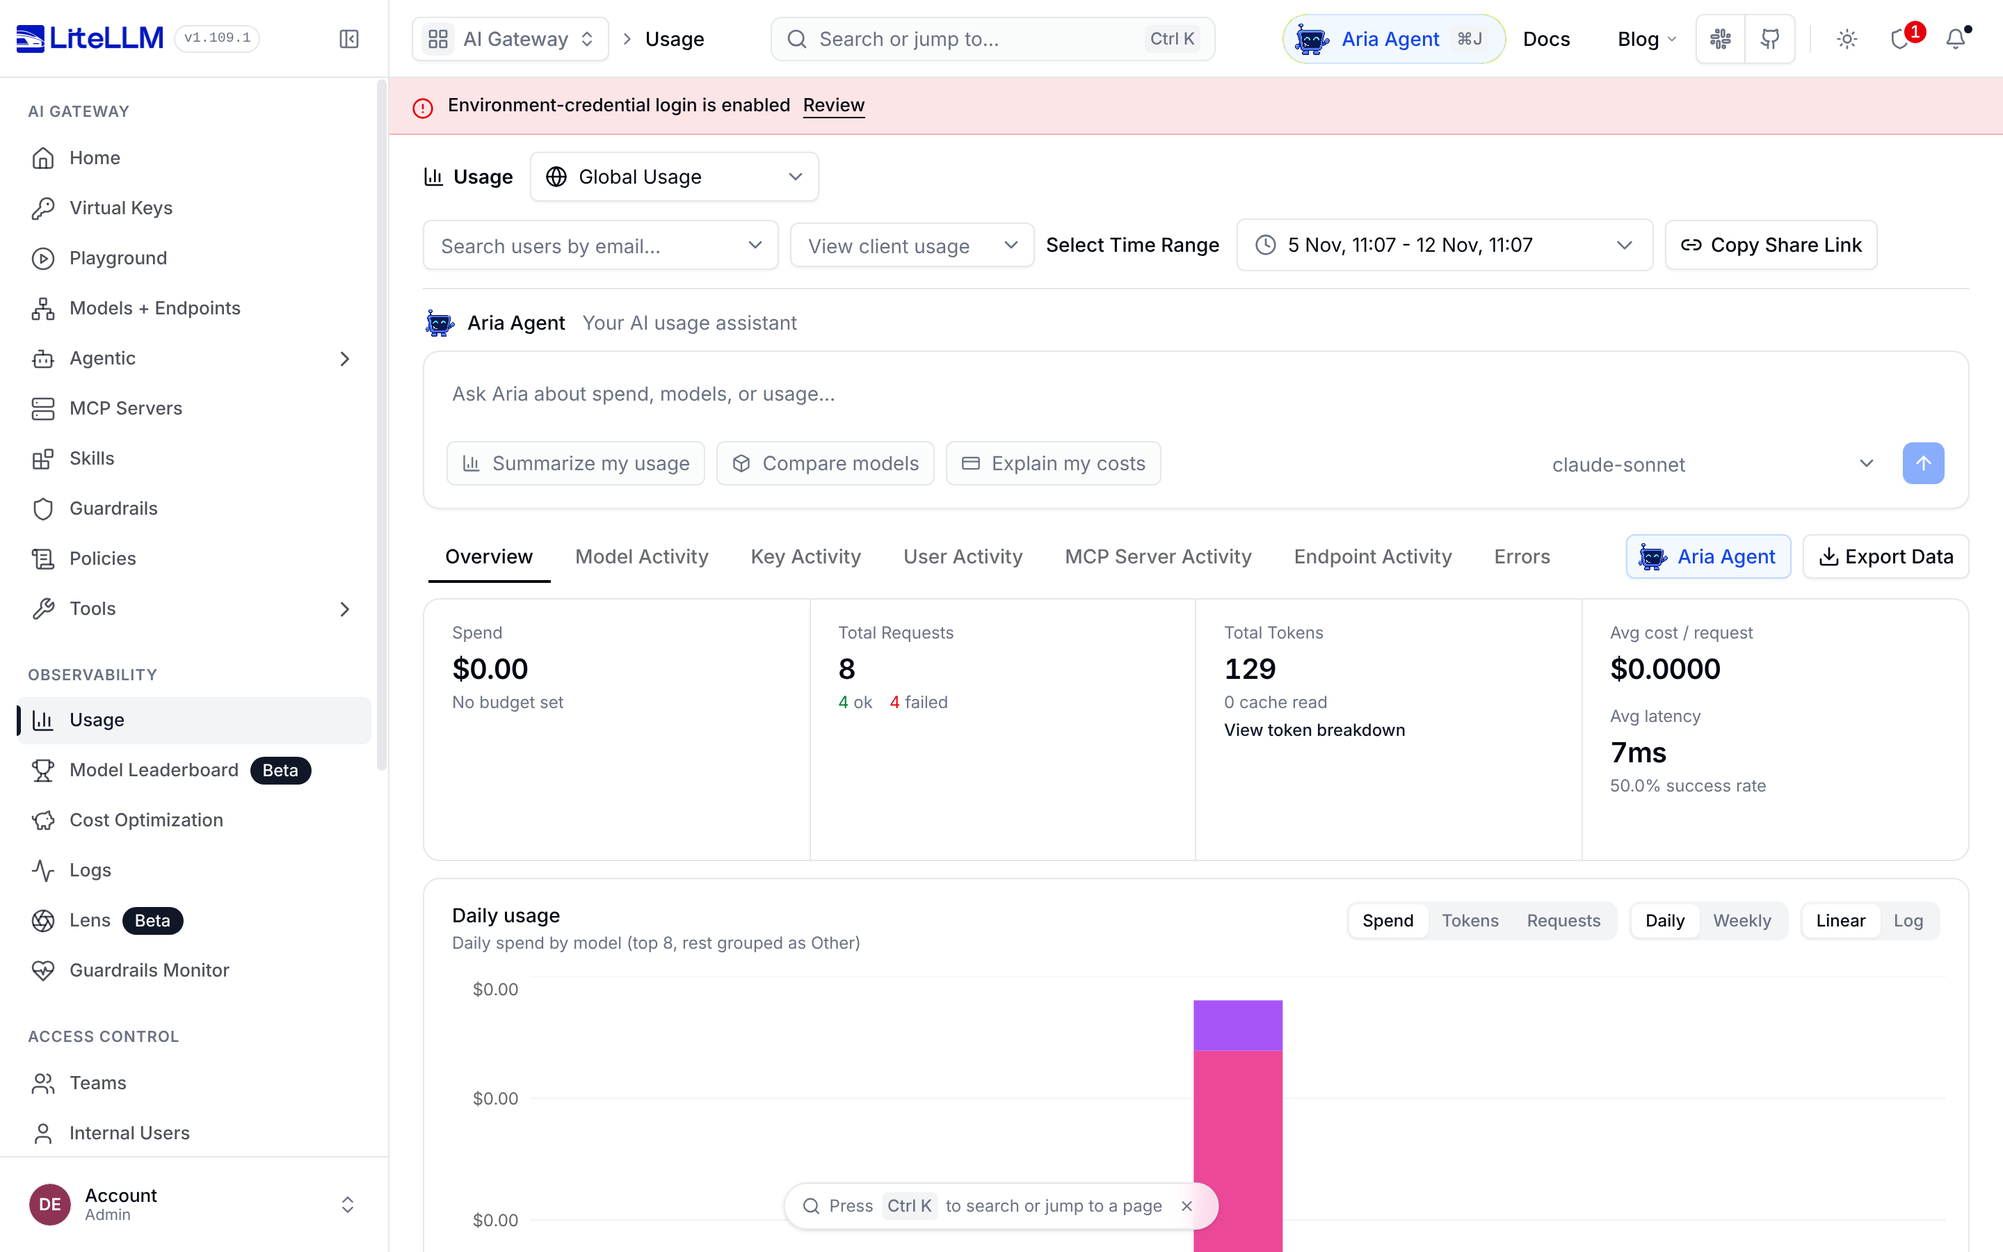
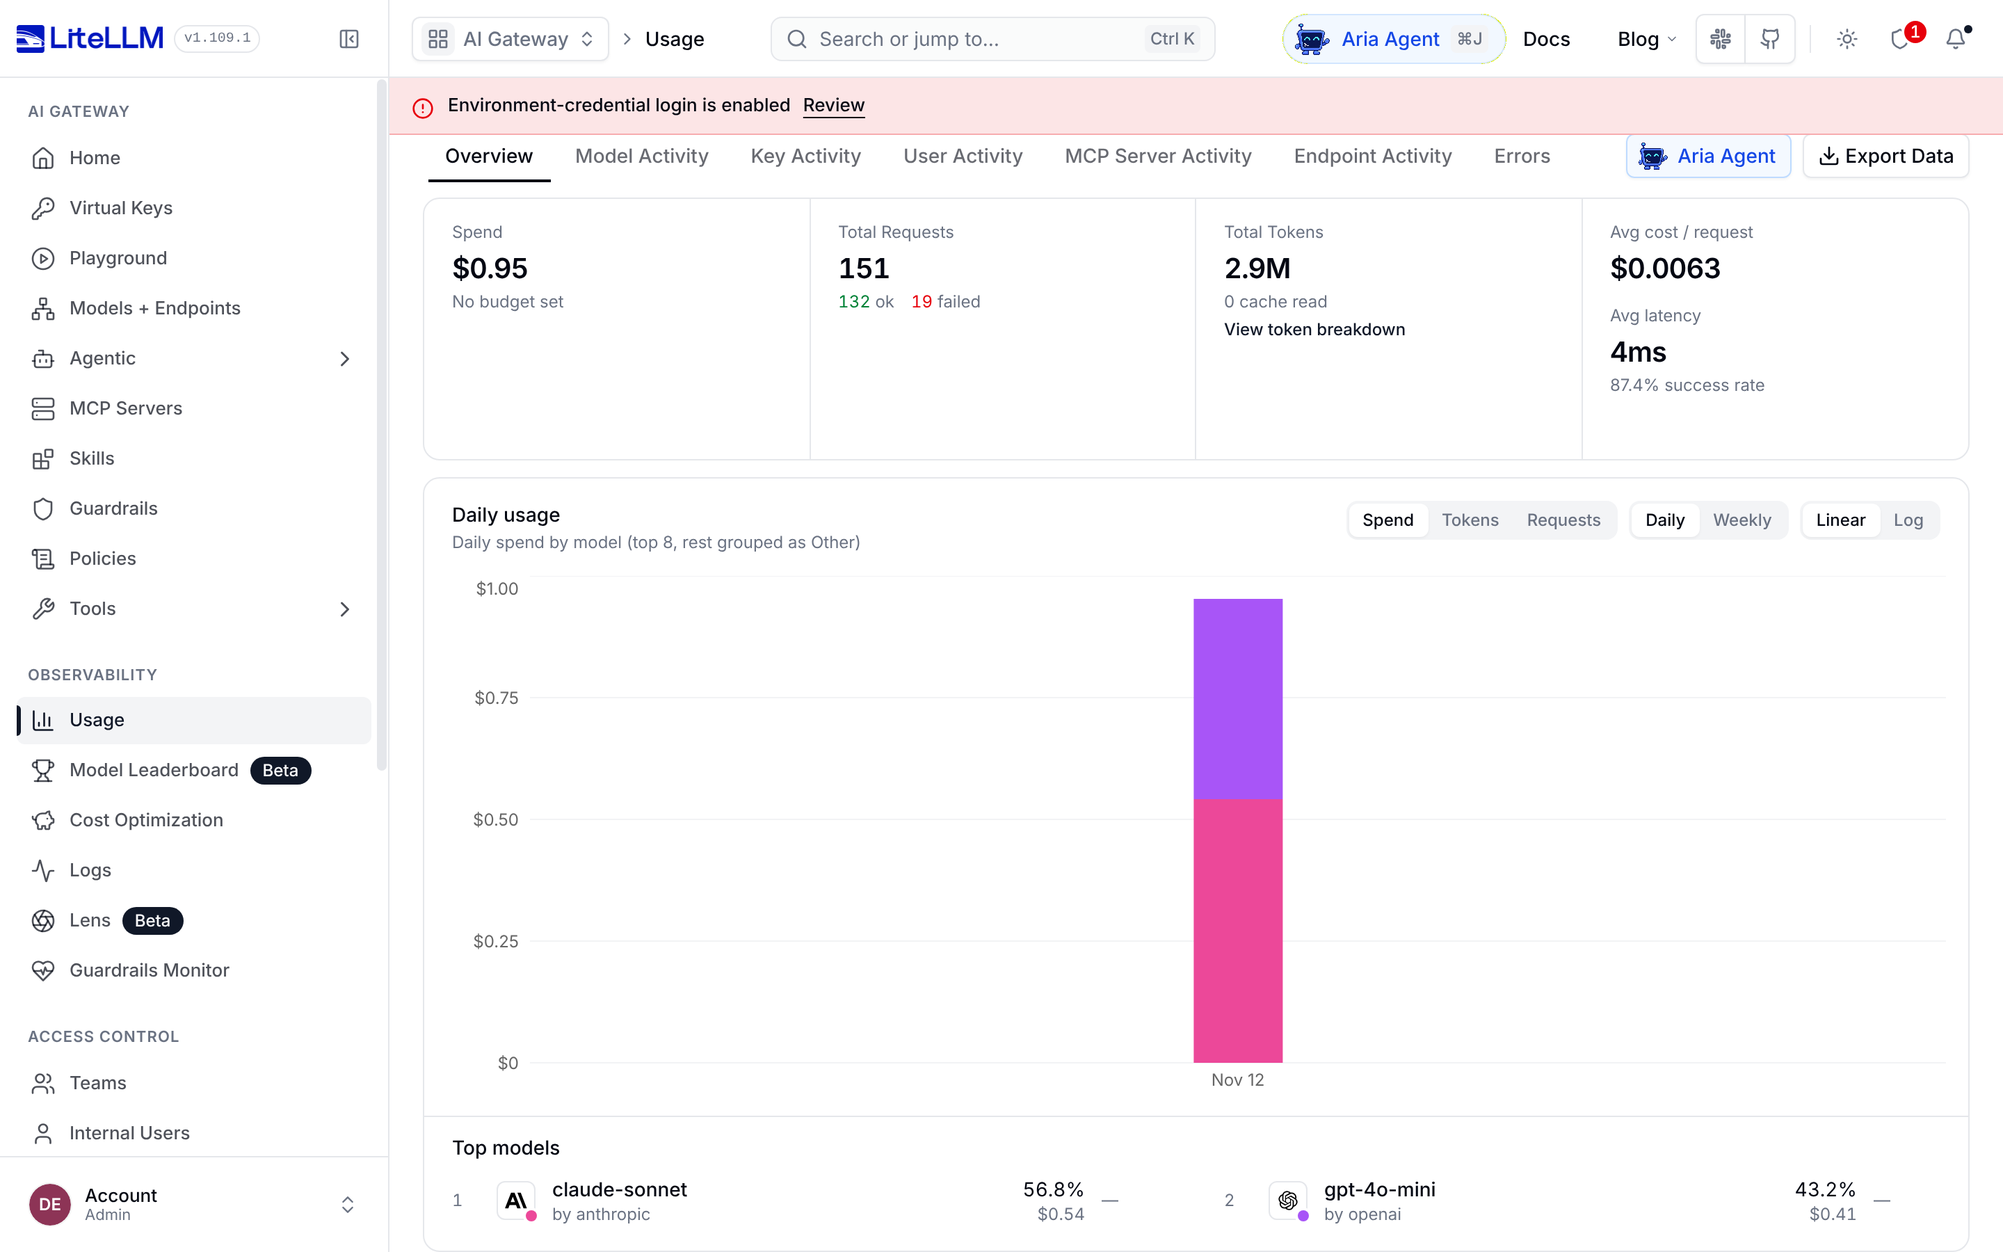
Seeded traffic, fresh screenshots with visible spend and budgets, key detail view

diff --git a/scripts/seed_traffic.py b/scripts/seed_traffic.py
@@ -1,0 +1,143 @@
+#!/usr/bin/env python3
+"""Seed realistic demo traffic through the gateway so the admin UI has something to show.
+Stdlib only. Usage: python3 scripts/seed_traffic.py [--fast] [topup|tail]
+  (no mode) full seed run; "topup" = extra key B traffic only (raises B spend by ~$0.36);
+  "tail" = ~20 interleaved calls so the newest rows on the logs page are a clean mix.
+
+Sends about 80 chat calls over a few minutes: key A (gpt-4o-mini + claude-sonnet), key B
+(gpt-4o-mini only, paced under its 10 requests/minute limit), a couple of master-key calls to the
+fallback route, and a few deliberate refusals (key B -> claude-sonnet, HTTP 403).
+Prompt sizes vary from a few hundred tokens up to tens of thousands so tokens and cost vary.
+Mocked providers return a tiny canned reply, so cost is driven by prompt size: to reach a visible share
+of the small demo budgets the larger prompts are big. Budgets are never exceeded (hard caps below).
+"""
+import json, os, random, sys, time, urllib.request, urllib.error
+
+ROOT = os.path.join(os.path.dirname(os.path.abspath(__file__)), "..")
+def load(path):
+    env = {}
+    if os.path.exists(path):
+        for line in open(path):
+            line = line.strip()
+            if line and not line.startswith("#") and "=" in line:
+                k, v = line.split("=", 1); env[k] = v
+    return env
+env = {**load(os.path.join(ROOT, ".env")), **load(os.path.join(ROOT, ".keys.env")), **os.environ}
+BASE = env.get("LITELLM_URL", "http://localhost:4000")
+MASTER, KEY_A, KEY_B = env["LITELLM_MASTER_KEY"], env["KEY_A"], env["KEY_B"]
+FAST = "--fast" in sys.argv
+MODE = next((a for a in sys.argv[1:] if a in ("topup", "tail")), "full")
+MAXTOK = 100000 if MODE == "topup" else 40000
+
+# USD per token, same as config.yaml
+PRICE = {"gpt-4o-mini": (0.00000015, 0.0000006), "claude-sonnet": (0.000003, 0.000015), "resilient-chat": (0.00000015, 0.0000006)}
+TARGET = {"A": 0.50, "B": 0.045}      # aimed-for final spend (of $1 and $0.10 budgets)
+HARD_CAP = {"A": 0.85, "B": 0.085}    # never plan to go above this
+MIN_B_GAP = 7.0                       # seconds between key B requests (limit is 10/min)
+
+rnd = random.Random(20261112)
+WORDS = ("gateway budget virtual key model request token latency fallback routing policy team analytics support "
+         "invoice customer ticket summary report quarter revenue forecast pipeline contract renewal churn onboarding "
+         "dashboard audit compliance retention embedding classification extraction translation draft review escalation "
+         "incident postmortem deployment rollback database migration index query cache queue worker schedule alert "
+         "threshold dataset sample feature release roadmap priority stakeholder meeting agenda minutes action owner").split()
+
+ratio = {"gpt-4o-mini": 1.3, "claude-sonnet": 1.3, "resilient-chat": 1.3}   # tokens per word, refined from usage
+
+def filler(tokens, model):
+    n = max(20, int(tokens / ratio[model]))
+    words = [rnd.choice(WORDS) for _ in range(n)]
+    for i in range(12, n, 14):
+        words[i] += "."
+    return "Please summarise the following notes in two sentences. " + " ".join(words)
+
+def post(key, model, tokens):
+    prompt = filler(tokens, model)
+    body = json.dumps({"model": model, "messages": [{"role": "user", "content": prompt}]}).encode()
+    headers = {"Content-Type": "application/json"}
+    if key: headers["Authorization"] = f"Bearer {key}"
+    req = urllib.request.Request(BASE + "/v1/chat/completions", data=body, headers=headers, method="POST")
+    try:
+        with urllib.request.urlopen(req, timeout=120) as r:
+            return r.status, json.loads(r.read()), len(prompt.split())
+    except urllib.error.HTTPError as e:
+        raw = e.read()
+        try: return e.code, json.loads(raw), len(prompt.split())
+        except Exception: return e.code, raw.decode(errors="replace"), len(prompt.split())
+
+# ---- plan -------------------------------------------------------------------------------------------
+def item(kind, who, model, **kw):
+    return {"kind": kind, "who": who, "model": model, **kw}
+def a_mini():  return item("ok", "A", "gpt-4o-mini", tokens=rnd.randint(300, 3000))
+def a_son():   return item("ok", "A", "claude-sonnet", weight=rnd.uniform(0.3, 1.7))
+def b_mini():  return item("ok", "B", "gpt-4o-mini", weight=rnd.uniform(0.1, 1.9))
+def ref():     return item("refused", "B", "claude-sonnet", tokens=rnd.randint(300, 1500))
+def fb():      return item("fallback", "M", "resilient-chat", tokens=rnd.randint(300, 1500))
+
+if MODE == "topup":
+    TARGET.update({"A": 0.0, "B": 0.36}); HARD_CAP.update({"A": 0.0, "B": 0.40})
+elif MODE == "tail":
+    TARGET.update({"A": 0.05, "B": 0.06}); HARD_CAP.update({"A": 0.1, "B": 0.09})
+head = [a_mini() for _ in range(27)] + [a_son() for _ in range(8)] + [b_mini() for _ in range(24)] + [ref(), fb()]
+rnd.shuffle(head)
+# keep the first call a cheap one so the early part of the run is quiet
+# Last 20 calls: interleaved successes from both keys and both models, 3 refusals, 1 fallback.
+TAIL = "A-mini B-mini A-son REF A-mini B-mini A-son A-mini B-mini REF A-son B-mini A-mini FB A-son B-mini REF A-mini B-mini A-son".split()
+mk = {"A-mini": a_mini, "A-son": a_son, "B-mini": b_mini, "REF": ref, "FB": fb}
+tail = [mk[t]() for t in TAIL]
+plan = {"full": head + tail, "topup": [b_mini() for _ in range(26)], "tail": tail}[MODE]
+
+# ---- run --------------------------------------------------------------------------------------------
+spent = {"A": 0.0, "B": 0.0}
+last_b = 0.0
+counts = {}
+def cost(model, usage):
+    pi, po = PRICE[model]
+    return usage.get("prompt_tokens", 0) * pi + usage.get("completion_tokens", 0) * po
+
+def tokens_for(it, idx):
+    if "tokens" in it: return it["tokens"]
+    rest = plan[idx:]
+    who = it["who"]
+    # remaining spend to reach target, minus the fixed-size calls still to come for that key
+    fixed = sum(x["tokens"] * PRICE[x["model"]][0] for x in rest if x["who"] == who and "tokens" in x)
+    wsum = sum(x["weight"] for x in rest if x["who"] == who and "weight" in x)
+    price = PRICE[it["model"]][0]
+    budget_left = max(0.0, TARGET[who] - spent[who] - fixed)
+    t = it["weight"] * budget_left / (wsum * price) if wsum else 1000
+    return int(min(max(t, 300), MAXTOK))
+
+t0 = time.time()
+total = len(plan)
+# spread the run over roughly 5 minutes
+gap = 0.4 if FAST else 3.4
+for idx, it in enumerate(plan):
+    who, model = it["who"], it["model"]
+    tok = tokens_for(it, idx)
+    if who in spent and it["kind"] == "ok":
+        est = tok * PRICE[model][0]
+        if spent[who] + est > HARD_CAP[who]:
+            print(f"[{idx+1}/{total}] skip {who} {model}: would pass the cap"); continue
+    if who == "B" and not FAST:
+        wait = MIN_B_GAP - (time.time() - last_b)
+        if wait > 0: time.sleep(wait)
+        last_b = time.time()
+    key = {"A": KEY_A, "B": KEY_B, "M": MASTER}[who]
+    status, body, words = post(key, model, tok)
+    if status == 200 and isinstance(body, dict):
+        u = body.get("usage", {})
+        if words and u.get("prompt_tokens"):
+            ratio[model] = max(0.5, min(3.0, u["prompt_tokens"] / (words + 10)))
+        c = cost(model if model != "resilient-chat" else "gpt-4o-mini", u)
+        if who in spent: spent[who] += c
+        tag = f"ok  prompt={u.get('prompt_tokens')} cost=${c:.6f}"
+    else:
+        tag = f"HTTP {status}"
+    exp = {"ok": 200, "fallback": 200, "refused": 403}[it["kind"]]
+    flag = "" if status == exp else "   <-- UNEXPECTED"
+    counts[(who, model, status)] = counts.get((who, model, status), 0) + 1
+    print(f"[{idx+1}/{total}] key {who} {model:15s} {tag}{flag}", flush=True)
+    time.sleep(gap * rnd.uniform(0.6, 1.4))
+
+print(f"\nDone in {time.time()-t0:.0f}s, {total} calls. Client-side spend estimate: A=${spent['A']:.4f} B=${spent['B']:.4f}")
+for k, v in sorted(counts.items()): print(" ", k, v)

diff --git a/scripts/screenshots.py b/scripts/screenshots.py
@@ -1,25 +1,104 @@
 #!/usr/bin/env python3
-"""Capture admin UI screenshots with Playwright (needs `pip install playwright` + a Chromium)."""
-import os, sys
+"""Capture admin UI screenshots with Playwright (needs `pip install playwright` + a Chromium).
+Writes 01-virtual-keys, 02-usage, 03-logs, 04-key-detail PNGs (1440x900 viewport, 2x) and boxes.json
+(bounding boxes of interesting elements, in screenshot pixel coordinates) to ./screenshots, or to $OUT_DIR.
+Run it after scripts/seed_traffic.py so the pages have data."""
+import json, os
 from playwright.sync_api import sync_playwright
+
 ROOT = os.path.join(os.path.dirname(os.path.abspath(__file__)), "..")
 env = {}
 for l in open(os.path.join(ROOT, ".env")):
     if "=" in l and not l.startswith("#"):
         k, v = l.strip().split("=", 1); env[k] = v
 B = "http://localhost:4000"
-out = os.path.join(ROOT, "screenshots"); os.makedirs(out, exist_ok=True)
+out = os.environ.get("OUT_DIR") or os.path.join(ROOT, "screenshots"); os.makedirs(out, exist_ok=True)
+S = 2  # device scale factor
+boxes = {}
+
+def bb(el):
+    b = el.bounding_box()
+    return [round(b["x"] * S), round(b["y"] * S), round((b["x"] + b["width"]) * S), round((b["y"] + b["height"]) * S)]
+
+def rec(page, name, el):
+    try:
+        boxes.setdefault(page, {})[name] = bb(el)
+    except Exception as e:
+        print("  box failed:", page, name, e)
+
+def climb(pg, text, min_w, max_w, min_h, nth=0):
+    """Smallest ancestor of the element with this exact text that is at least min_w x min_h (and not wider than max_w)."""
+    h = pg.get_by_text(text, exact=True).nth(nth).evaluate_handle(
+        """(e, a) => { let n = e; while (n.parentElement) { const r = n.getBoundingClientRect();
+             if (r.width >= a[0] && r.height >= a[2]) return r.width <= a[1] ? n : e; n = n.parentElement; } return e; }""",
+        [min_w, max_w, min_h])
+    return h.as_element()
+
+def close_toast(pg):
+    try:
+        btn = pg.locator('button:has(span:text("Press"))').first
+        if btn.count():
+            pg.locator('div:has(> button:has(span:text("Press"))) > button').last.click(timeout=2000)
+            pg.wait_for_timeout(400)
+    except Exception as e:
+        print("  toast not closed:", e)
+
 with sync_playwright() as p:
     br = p.chromium.launch()
-    pg = br.new_context(viewport={"width": 1440, "height": 900}, device_scale_factor=2).new_page()
+    pg = br.new_context(viewport={"width": 1440, "height": 900}, device_scale_factor=S).new_page()
     pg.goto(B + "/ui/login"); pg.wait_for_timeout(2500)
-    pg.screenshot(path=f"{out}/00-login.png")
     pg.fill('input[name="username"], input[type="text"]', env["UI_USERNAME"])
     pg.fill('input[type="password"]', env["UI_PASSWORD"])
     pg.keyboard.press("Enter"); pg.wait_for_timeout(5000)
     print("after login:", pg.url)
-    for name, path in [("01-virtual-keys", "/ui/?page=api-keys"), ("02-usage", "/ui/?page=new_usage"), ("03-logs", "/ui/?page=logs")]:
-        pg.goto(B + path); pg.wait_for_timeout(6000)
-        print(name, pg.url)
-        pg.screenshot(path=f"{out}/{name}.png")
+
+    # 01 virtual keys
+    pg.goto(B + "/ui/?page=api-keys"); pg.wait_for_timeout(6000); close_toast(pg)
+    heads = [t.strip() for t in pg.locator("thead th").all_inner_texts()]
+    sc = next(i for i, t in enumerate(heads) if t.startswith("Spend / Budget"))
+    for row in pg.locator("tbody tr").all():
+        txt = row.inner_text()
+        alias = "key-a-analytics" if "key-a-analytics" in txt else "key-b-support" if "key-b-support" in txt else None
+        if alias:
+            rec("keys", f"row {alias}", row)
+            rec("keys", f"spend-budget {alias}", row.locator("td").nth(sc))
+    pg.screenshot(path=f"{out}/01-virtual-keys.png"); print("01", pg.url)
+
+    # 02 usage (scroll so the tiles and the daily chart are both in view)
+    pg.goto(B + "/ui/?page=new_usage"); pg.wait_for_timeout(8000); close_toast(pg)
+    chart = climb(pg, "Daily usage", 900, 1700, 300)
+    chart.evaluate("e => e.scrollIntoView({block: 'end'})"); pg.wait_for_timeout(1500)
+    for nm, t in [("spend tile", "Spend"), ("total requests tile", "Total Requests"), ("total tokens tile", "Total Tokens")]:
+        rec("usage", nm, climb(pg, t, 250, 600, 120))
+    rec("usage", "daily usage chart", chart)
+    pg.screenshot(path=f"{out}/02-usage.png"); print("02", pg.url)
+
+    # 03 logs
+    pg.goto(B + "/ui/?page=logs"); pg.wait_for_timeout(8000); close_toast(pg)
+    for nm, t in [("cost column header", "Cost"), ("key alias column header", "Key Alias"), ("model column header", "Model")]:
+        rec("logs", nm, pg.locator("thead th", has_text=t).first)
+    n = 0
+    for badge in pg.get_by_text("Failure", exact=True).all():
+        b = badge.bounding_box()
+        if not b or b["y"] + b["height"] > 895: continue
+        n += 1
+        if n > 3: break
+        rec("logs", f"failure badge {n}", badge)
+        rec("logs", f"failure row {n}", badge.locator("xpath=ancestor::tr[1]"))
+    for who in ("key-a-analytics", "key-b-support"):
+        for row in pg.locator("tbody tr").all():
+            t = row.inner_text()
+            if "Success" in t and who in t and row.bounding_box()["y"] + row.bounding_box()["height"] < 895:
+                rec("logs", f"success row {who}", row); break
+    pg.screenshot(path=f"{out}/03-logs.png"); print("03", pg.url)
+
+    # 04 key detail
+    pg.goto(B + "/ui/?page=api-keys"); pg.wait_for_timeout(6000)
+    pg.get_by_text("key-a-analytics").first.click(); pg.wait_for_timeout(3500); close_toast(pg)
+    rec("key-detail", "allowed models", climb(pg, "Models", 300, 700, 120))
+    rec("key-detail", "budget (spend card)", climb(pg, "Spend", 300, 700, 120))
+    pg.screenshot(path=f"{out}/04-key-detail.png"); print("04", pg.url)
     br.close()
+
+json.dump(boxes, open(f"{out}/boxes.json", "w"), indent=1)
+print(json.dumps(boxes, indent=1))

diff --git a/README.md b/README.md
@@ -35,7 +35,7 @@ client / app --(Bearer virtual key)--> [Caddy/nginx TLS] --> LiteLLM Proxy :4000
 ```
 
 - `config.yaml`: models (`gpt-4o-mini`, `claude-sonnet`, `gpt-4o`), a fallback route `resilient-chat` (primary is a deliberately failing mock, falls back to `gpt-4o-mini`), and general settings (master key and DB URL from env).
-- Keys: A = team "analytics", models gpt-4o-mini + claude-sonnet, budget $5. B = team "support", gpt-4o-mini only, budget $1, 10 requests/minute.
+- Keys: A = team "analytics", models gpt-4o-mini + claude-sonnet, budget $1. B = team "support", gpt-4o-mini only, budget $1, 10 requests/minute.
 
 ## Install (Ubuntu 22.04/24.04, native)
 
@@ -54,6 +54,7 @@ set -a; . ./.env; set +a; export PATH=$PWD/.venv/bin:$PATH
 prisma generate --schema .venv/lib/python3*/site-packages/litellm/proxy/schema.prisma
 litellm --config config.yaml --port 4000     # applies DB migrations on first start
 scripts/create_keys.sh                        # writes .keys.env (git-ignored)
+python3 scripts/seed_traffic.py               # ~80 varied calls so spend, logs and usage have data
 python3 scripts/acceptance_test.py | tee test-results.txt
 ```
 
@@ -81,7 +82,7 @@ c) key B -> claude-sonnet refused          PASS    HTTP 403
 d) key B -> gpt-4o refused                 PASS    HTTP 403
 e) no key / bad key refused                PASS    no key HTTP 401, bad key HTTP 401
    key B -> gpt-4o-mini allowed (sanity)   PASS    HTTP 200
-f) key A spend > 0, logs + tokens visible  PASS    spend=$0.00035295, log rows=2, total tokens=66, models=['anthropic/claude-sonnet-4-5', 'openai/gpt-4o-mini']
+f) key A spend > 0, logs + tokens visible  PASS    spend=$0.50091075, log rows=49, total tokens=218607, models=['anthropic/claude-sonnet-4-5', 'openai/gpt-4o-mini']
 g) fallback resilient-chat -> gpt-4o-mini  PASS    HTTP 200: 'Mock reply from gpt-4o-mini via the gateway'
 
 OVERALL: PASS
@@ -91,20 +92,25 @@ Refusals return 403 for a valid key that lacks access to the model and 401 for a
 
 ## Screenshots (admin UI, v1.109.1)
 
-- `screenshots/00-login.png`: login page.
-- `screenshots/01-virtual-keys.png`: Virtual Keys page showing key A and key B with team and spend/budget.
+Taken after `scripts/seed_traffic.py` sent about 150 calls through the gateway (mocked replies, list-price costs), so the numbers are not empty. Times in the UI are UTC.
+
+**Virtual keys.** Each key belongs to a team and has a budget; the bar shows spend against it (key B $0.40 of $1, key A $0.55 of $1).
 
 ![Virtual keys](screenshots/01-virtual-keys.png)
 
-The red banner is LiteLLM warning that the admin login uses a username and password from the environment file. That is fine for a demo; for production use SSO or put the admin UI behind your VPN (see Limitations). Spend shows fractions of a cent because only the test calls were sent, priced at list rates.
+The red banner is LiteLLM warning that the admin login uses a username and password from the environment file. That is fine for a demo; for production use SSO or keep the admin UI behind your VPN (see Limitations).
 
-- `screenshots/03-logs.png`: request logs: the successful and refused test calls, per-call cost, tokens, key alias, team.
+**One key in detail.** Key A may call only gpt-4o-mini and claude-sonnet, and has spent $0.55 of its $1 budget.
+
+![Key detail](screenshots/04-key-detail.png)
+
+**Request logs.** Every call with its team, key, model, cost and tokens. The "Failure" rows are key B asking for claude-sonnet, which it is not allowed to use, and being refused with HTTP 403. The row with no team or key alias is the fallback test, sent with the admin master key.
 
 ![Request logs](screenshots/03-logs.png)
 
-The 4 "Failure" rows are the access-control tests working as intended: key B refused for claude-sonnet and gpt-4o (HTTP 403), and the calls with no key and with a bad key (HTTP 401). The top row is the fallback test, sent with the admin master key, so it has no team or key alias.
+**Usage.** Total spend, requests (successful and refused) and tokens, with daily spend split by model.
 
-- `screenshots/02-usage.png`: usage overview. The headline Spend tile shows "$0.00" because the total (about $0.0004) is below the tile's 2-decimal rounding; request and token counts are correct.
+![Usage](screenshots/02-usage.png)
 
 ## Limitations
 
@@ -116,4 +122,4 @@ The 4 "Failure" rows are the access-control tests working as intended: key B ref
 
 ## Files
 
-`config.yaml`, `.env.example`, `scripts/` (create_keys.sh, acceptance_test.py, screenshots.py), `deploy/` (install.sh, litellm.service, Caddyfile.example, nginx.conf.example), `test-results.txt`, `screenshots/`, `LICENSE` (MIT, covers our own files; LiteLLM has its own licence).
+`config.yaml`, `.env.example`, `scripts/` (create_keys.sh, seed_traffic.py, acceptance_test.py, screenshots.py), `deploy/` (install.sh, litellm.service, Caddyfile.example, nginx.conf.example), `test-results.txt`, `screenshots/`, `LICENSE` (MIT, covers our own files; LiteLLM has its own licence).
